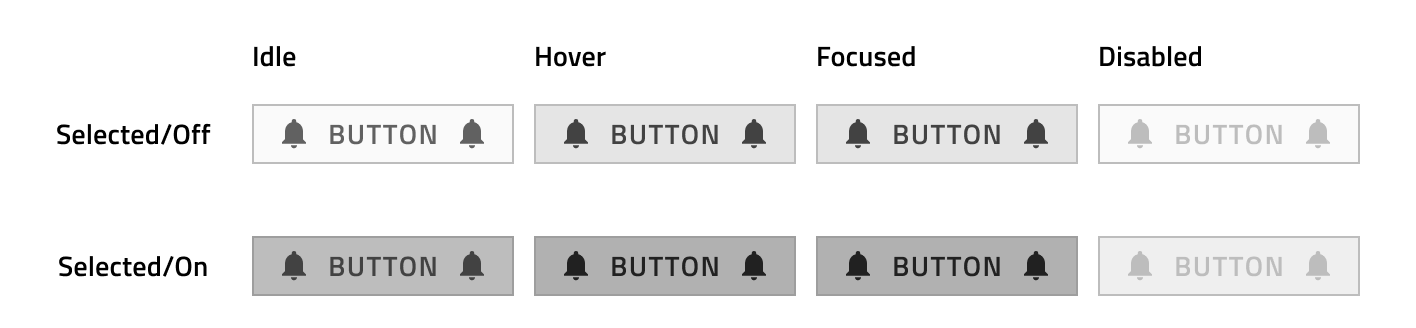
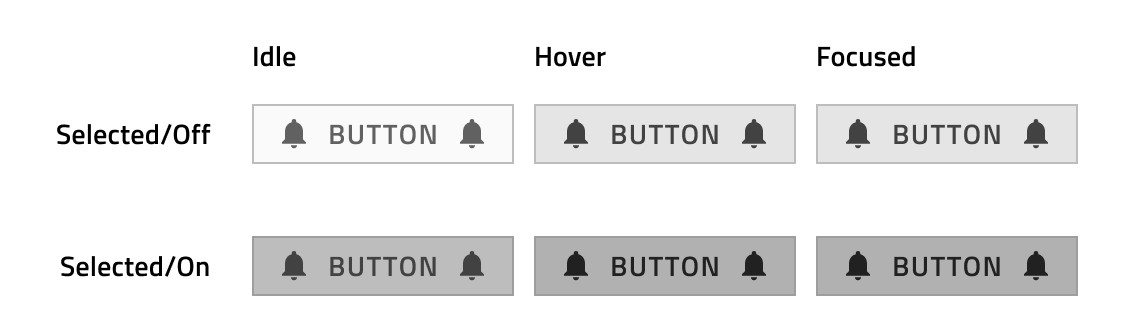
Rewrite Interaction States section

diff --git a/en/components/button-group.md b/en/components/button-group.md
@@ -33,7 +33,7 @@ Each button from the Button Group component supports both Enabled and Disabled v
 
 ## States
 
-In Figma the Enabled buttons in the Button Group component support Idle, Hover and Focused states which can be switched between by changing the State property. Disabled and Selected states can be switched on/off from a boolean properties and are applicable for all states of the buttons.
+In Figma the Enabled buttons in the Button Group component support Idle, Hover and Focused states which can be switched between by changing the State property.
 
 <img class="responsive-img" src="../images/button-group_states.png" srcset="../images/button-group_states@2x.png 2x" />
 
